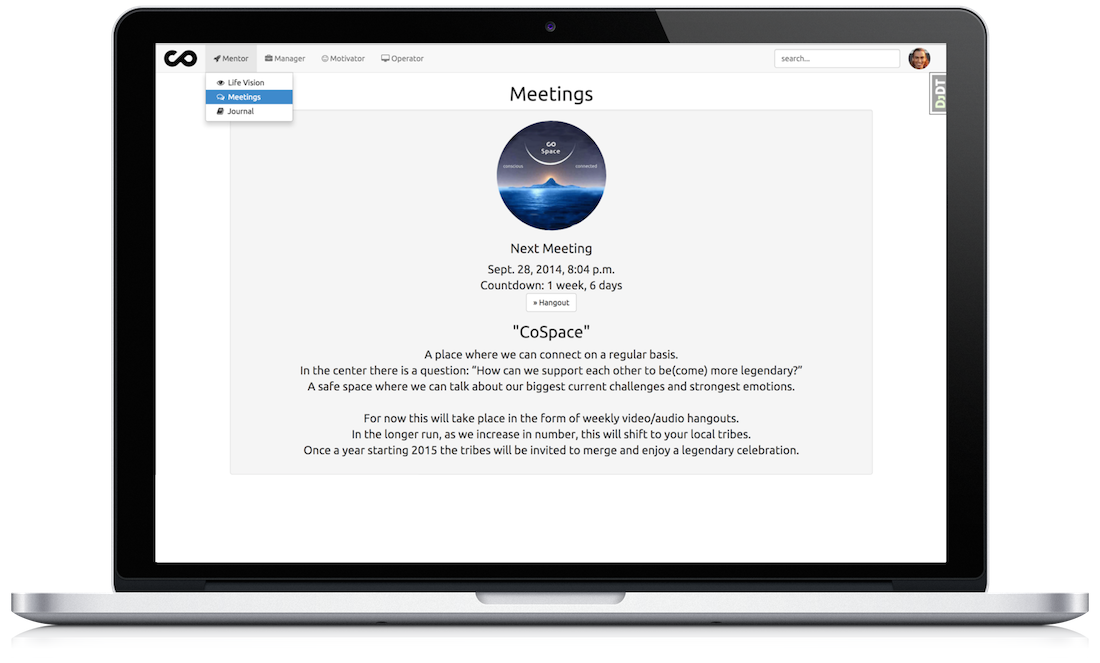
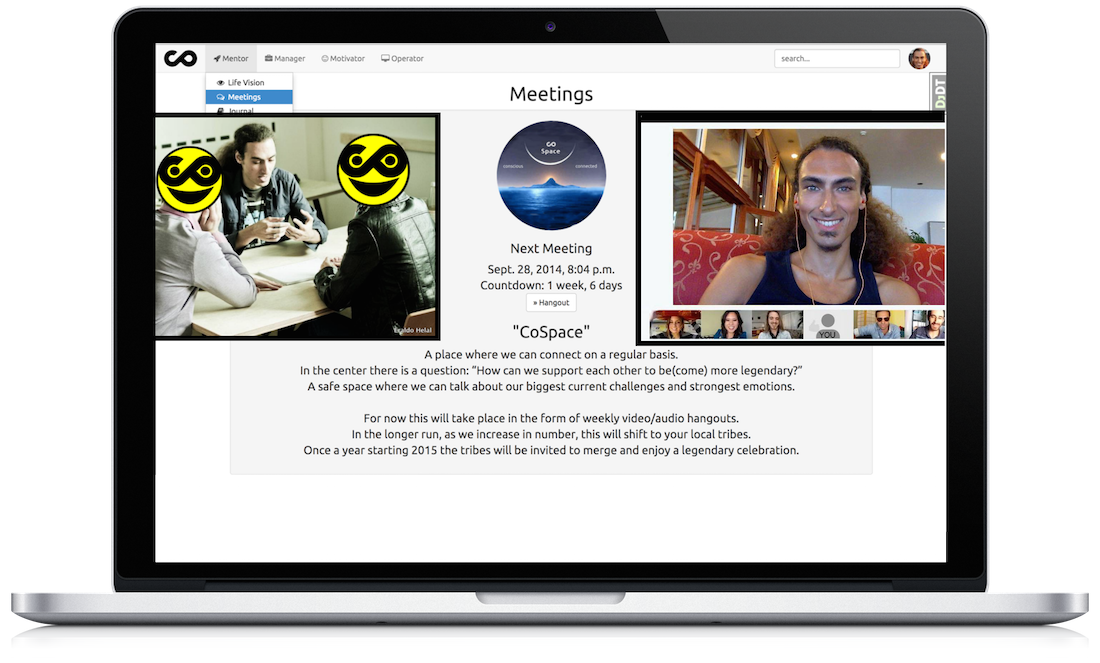
Updated About-Screen-Shots.

Changed region(s): [[0.5564, 0.1508, 0.8655, 0.543], [0.1236, 0.1508, 0.4018, 0.5128]]

diff --git a/colegend/website/templates/website/about.html b/colegend/website/templates/website/about.html
@@ -120,6 +120,8 @@
                     <li data-target="#carousel-example-generic" data-slide-to="2"></li>
                     <li data-target="#carousel-example-generic" data-slide-to="3"></li>
                     <li data-target="#carousel-example-generic" data-slide-to="4"></li>
+                    <li data-target="#carousel-example-generic" data-slide-to="5"></li>
+                    <li data-target="#carousel-example-generic" data-slide-to="6"></li>
                 </ol>
 
                 <!-- Wrapper for slides -->
@@ -153,10 +155,24 @@
                         </div>
                     </div>
                     <div class="item">
+                        <img src="{{ STATIC_URL }}website/images/screendemo/Journal.png" alt="Reflective Journal">
+
+                        <div class="carousel-caption">
+                            <a class="btn btn-lg btn-default">Reflective Journal</a>
+                        </div>
+                    </div>
+                    <div class="item">
                         <img src="{{ STATIC_URL }}website/images/screendemo/Contact.png" alt="Personal Contact">
 
                         <div class="carousel-caption">
                             <a class="btn btn-lg btn-default">Personal Contact</a>
+                        </div>
+                    </div>
+                    <div class="item">
+                        <img src="{{ STATIC_URL }}website/images/screendemo/Adventure.png" alt="Awesome Adventure">
+
+                        <div class="carousel-caption">
+                            <a class="btn btn-lg btn-default">Awesome Adventure</a>
                         </div>
                     </div>
                 </div>
